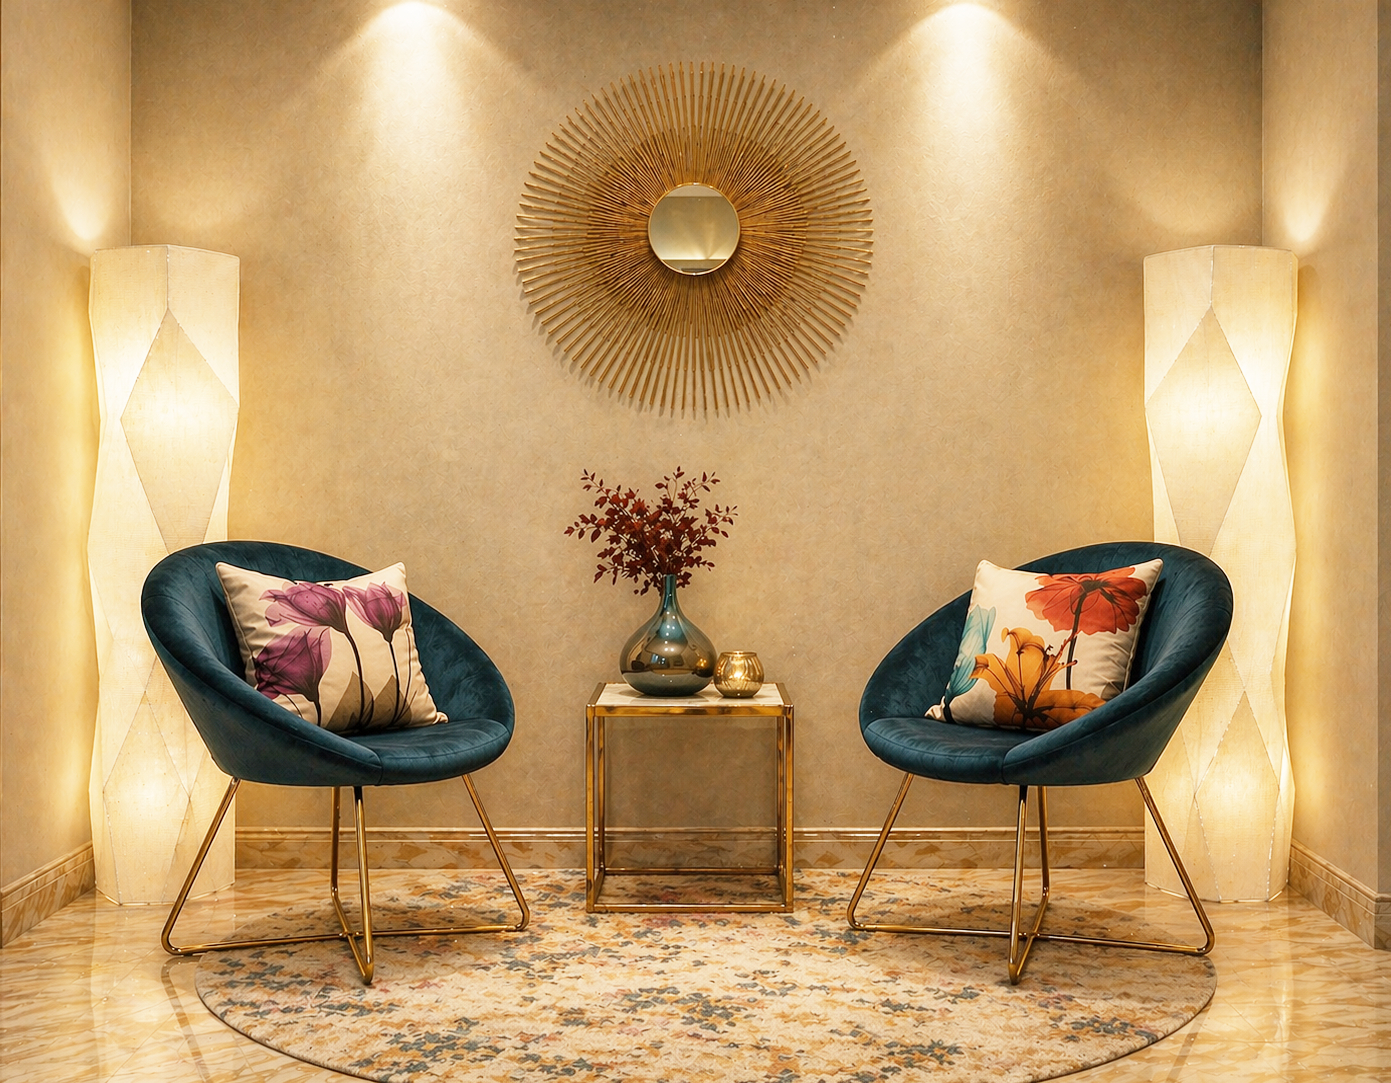
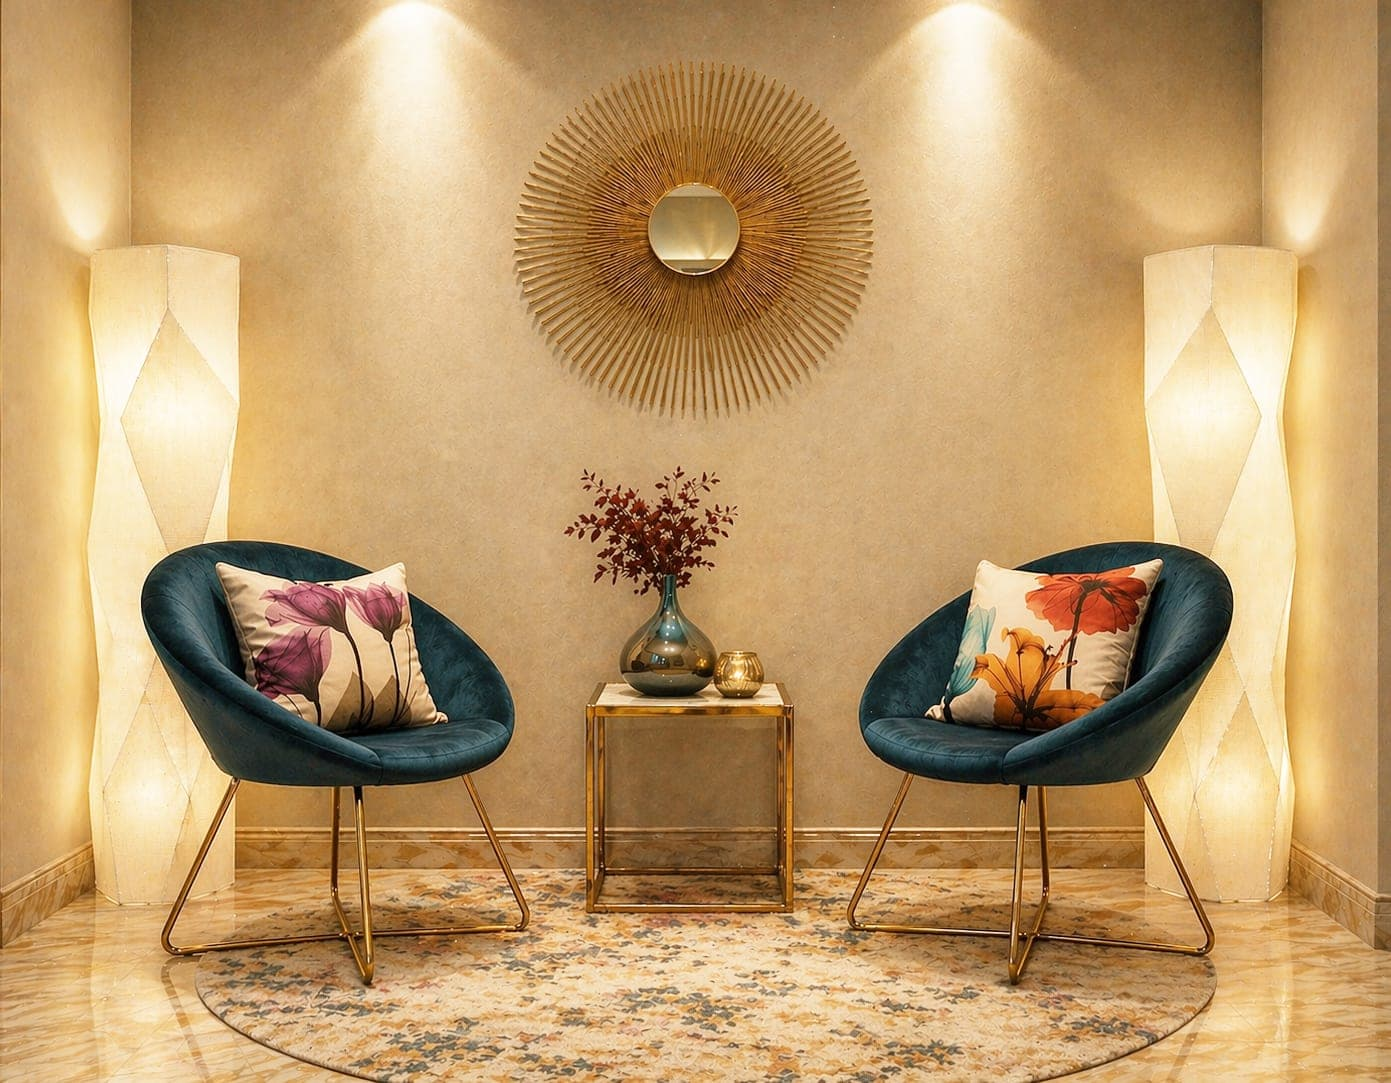
Perf: compress hero images, PNG to JPG, add fetchpriority
- Compressed all 11 actively-used projects-new images (were 1.2-7.5 MB, now 130-220 KB)
- Converted 6 hero PNGs to JPG (e.g. hero main: 2287 KB to 184 KB, -92%)
- Resized + compressed Makindye Walk in closet i.jpg: 7569 KB to 177 KB (-98%)
- Added fetchpriority=high to all 5 page hero img tags (LCP fix)
- Updated all TSX imports from .png to .jpg for converted files
- Total page-load image payload reduced from ~30 MB to ~1.5 MB

Generated with [Devin](https://devin.ai)

Changed region(s): [[0.5255, 0.2438, 0.5564, 0.2742], [0.5255, 0.1524, 0.5564, 0.1828], [0.4328, 0.2438, 0.4637, 0.2742]]

diff --git a/src/pages/Index.tsx b/src/pages/Index.tsx
@@ -1,13 +1,13 @@
 import { Link } from "react-router-dom";
 import { useState, useEffect } from "react";
 import Layout from "@/components/Layout";
-import heroImage from "@/assets/projects-new/Fb banner Hero Main i.png";
-import philosophyBg from "@/assets/projects-new/004 Tlokweng Modern Haven ii.png";
-import project1 from "@/assets/projects-new/004 Tlokweng Modern Haven.png";
-import project2 from "@/assets/projects-new/004 lougne.png";
+import heroImage from "@/assets/projects-new/Fb banner Hero Main i.jpg";
+import philosophyBg from "@/assets/projects-new/004 Tlokweng Modern Haven ii.jpg";
+import project1 from "@/assets/projects-new/004 Tlokweng Modern Haven.jpg";
+import project2 from "@/assets/projects-new/004 lougne.jpg";
 import project3 from "@/assets/projects-new/Modern Classic Mansion (1).jpg";
 import project4 from "@/assets/projects-new/Makindye Walk in closet i.jpg";
-import project5 from "@/assets/projects-new/bedroom.png";
+import project5 from "@/assets/projects-new/bedroom.jpg";
 import project6 from "@/assets/projects-new/Makindye speakeasy (1).jpg";
 import review1 from "@/assets/review-1.jpg";
 import review2 from "@/assets/review-2.jpg";
@@ -55,6 +55,7 @@ const Index = () => {
         src={heroImage}
         alt="Refined luxury interior living room with natural textures"
         className="absolute inset-0 w-full h-full object-cover"
+        fetchpriority="high"
         width={1920}
         height={1080}
       />

diff --git a/src/pages/Portfolio.tsx b/src/pages/Portfolio.tsx
@@ -2,7 +2,7 @@ import { useState, useEffect, useRef, useCallback } from "react";
 import { Link } from "react-router-dom";
 import { X } from "lucide-react";
 import Layout from "@/components/Layout";
-import portfolioHero from "@/assets/projects-new/Fb banner Hero Main i.png";
+import portfolioHero from "@/assets/projects-new/Fb banner Hero Main i.jpg";
 import {
   projects,
   rooms,
@@ -484,6 +484,7 @@ const Portfolio = () => {
           src={portfolioHero}
           alt="Naledi Interiors portfolio"
           className="absolute inset-0 w-full h-full object-cover"
+          fetchpriority="high"
         />
         <div className="absolute inset-0 bg-charcoal/30" />
         <div className="relative z-10 max-w-7xl mx-auto px-6 lg:px-12 pb-12 w-full">

diff --git a/src/pages/Services.tsx b/src/pages/Services.tsx
@@ -1,6 +1,6 @@
 import Layout from "@/components/Layout";
 import { Link } from "react-router-dom";
-import servicesHero from "@/assets/projects-new/Modern Classic Mansion ii.png";
+import servicesHero from "@/assets/projects-new/Modern Classic Mansion ii.jpg";
 
 const services = [
   {
@@ -50,6 +50,7 @@ const Services = () => (
         src={servicesHero}
         alt="Luxury interior design"
         className="absolute inset-0 w-full h-full object-cover"
+        fetchpriority="high"
       />
       <div className="absolute inset-0 bg-charcoal/30" />
       <div className="relative z-10 max-w-7xl mx-auto px-6 lg:px-12 pb-12 w-full">

diff --git a/src/pages/About.tsx b/src/pages/About.tsx
@@ -1,5 +1,5 @@
 import Layout from "@/components/Layout";
-import aboutHero from "@/assets/projects-new/Fb banner supporting ii.png";
+import aboutHero from "@/assets/projects-new/Fb banner supporting ii.jpg";
 
 const About = () => (
   <Layout>
@@ -9,6 +9,7 @@ const About = () => (
         src={aboutHero}
         alt="Elegant interior design"
         className="absolute inset-0 w-full h-full object-cover"
+        fetchpriority="high"
       />
       <div className="absolute inset-0 bg-charcoal/30" />
       <div className="relative z-10 max-w-7xl mx-auto px-6 lg:px-12 pb-12 w-full">

diff --git a/src/pages/Contact.tsx b/src/pages/Contact.tsx
@@ -129,6 +129,7 @@ const Contact = () => {
           src={contactHero}
           alt="Elegant interior space"
           className="absolute inset-0 w-full h-full object-cover"
+          fetchpriority="high"
         />
         <div className="absolute inset-0 bg-charcoal/30" />
         <div className="relative z-10 max-w-7xl mx-auto px-6 lg:px-12 pb-12 w-full">
